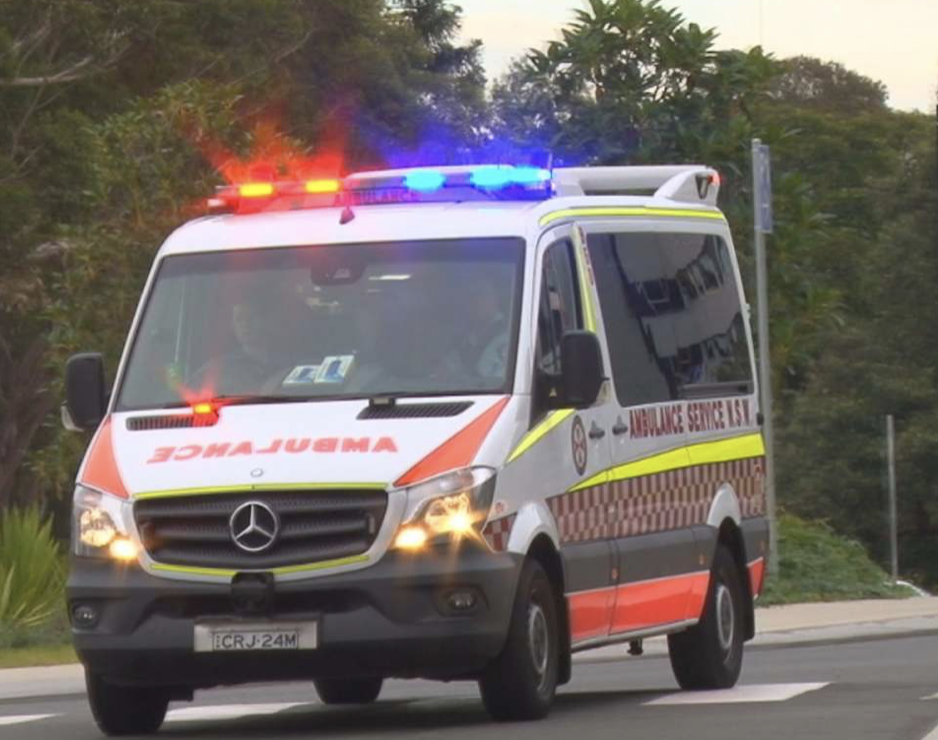
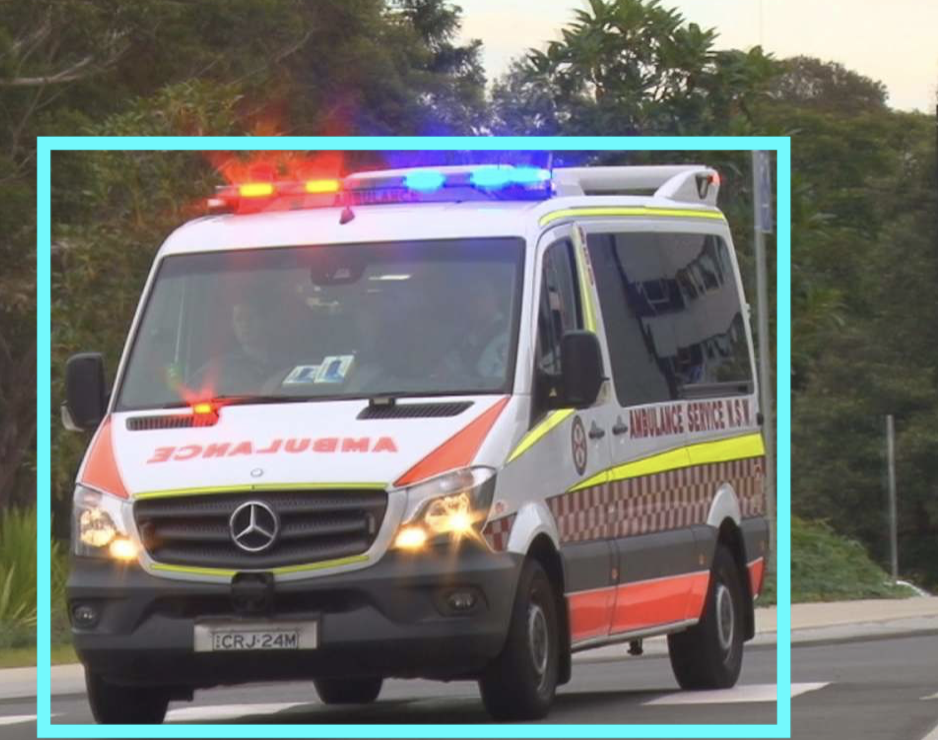
Update images with boxes
Updating images to include 'vehicle recognition' boxes

Changed region(s): [[0.0309, 0.1865, 0.8657, 1.0]]

diff --git a/src/case-1/single-form.html b/src/case-1/single-form.html
@@ -5,7 +5,7 @@
 
 	<div class="nsw-grid">
 		<div class="nsw-col--half infringement-image">
-			<img src="{{ '/assets/images/Ambulence-lights.png' | url }}" alt="Ambulance driving">
+			<img src="{{ '/assets/images/Ambulance-lights-box.png' | url }}" alt="Ambulance driving">
 		</div>
 		<div class="nsw-col--half">
 			<div class="panel">

diff --git a/src/case2/index.md b/src/case2/index.md
@@ -5,7 +5,7 @@
 
   <div class="nsw-grid">
     <div class="nsw-col--half infringement-image">
-      <img src="{{ '/assets/images/Ambulence-nolights.png' | url }}" alt="Ambulance driving">
+      <img src="{{ '/assets/images/Ambulance-nolights-box.png' | url }}" alt="Ambulance driving">
     </div>
     <div class="nsw-col--half">
       <div class="panel">

diff --git a/src/case-car/index.md b/src/case-car/index.md
@@ -4,7 +4,7 @@
 	</header>
 	<div class="nsw-grid">
 		<div class="nsw-col--half infringement-image">
-			<img src="{{ '/assets/images/car_individual.jpg' | url }}" alt="Car driving">
+			<img src="{{ '/assets/images/car_individual_box.jpg' | url }}" alt="Car driving">
 		</div>
 		<div class="nsw-col--half">
 			<div class="panel">
